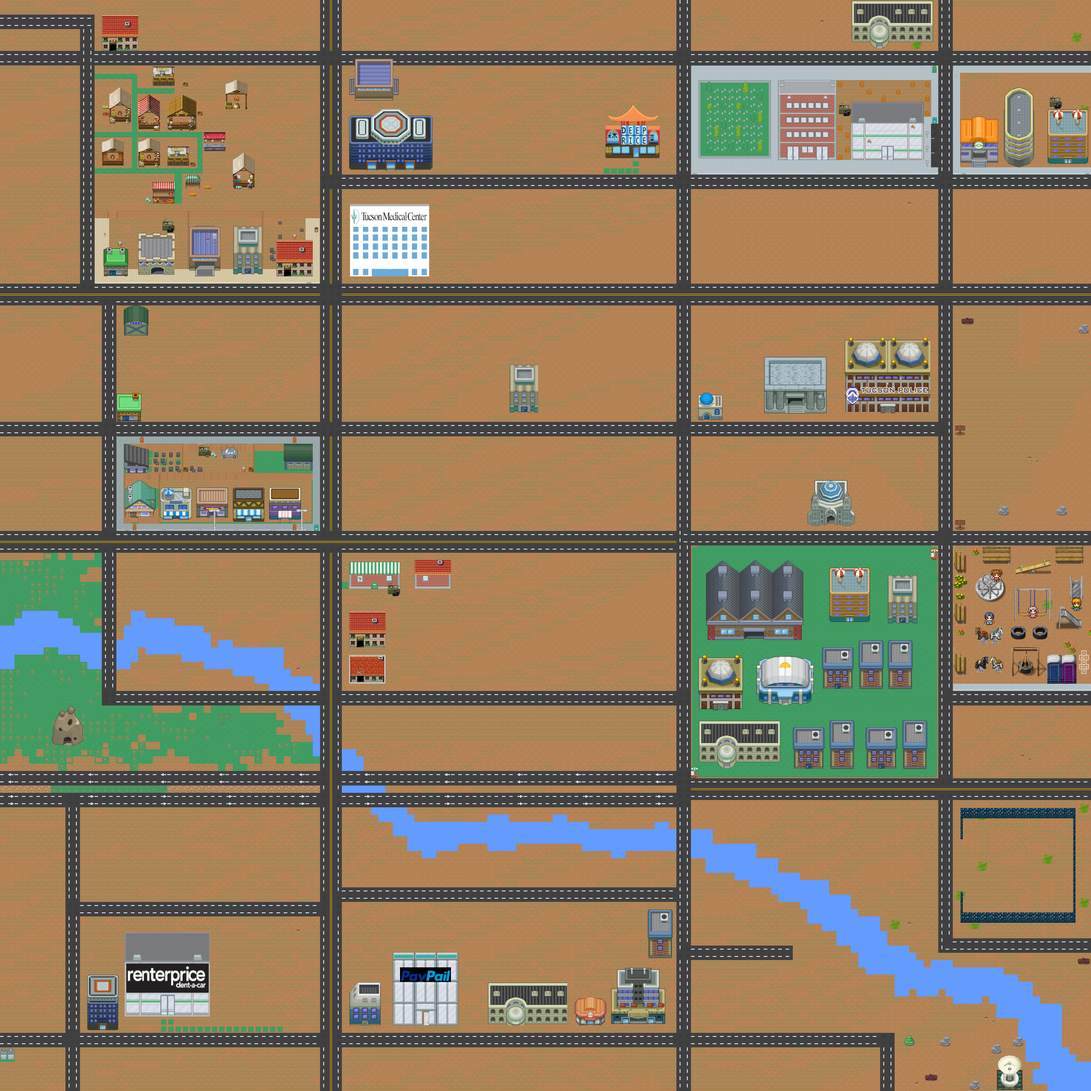
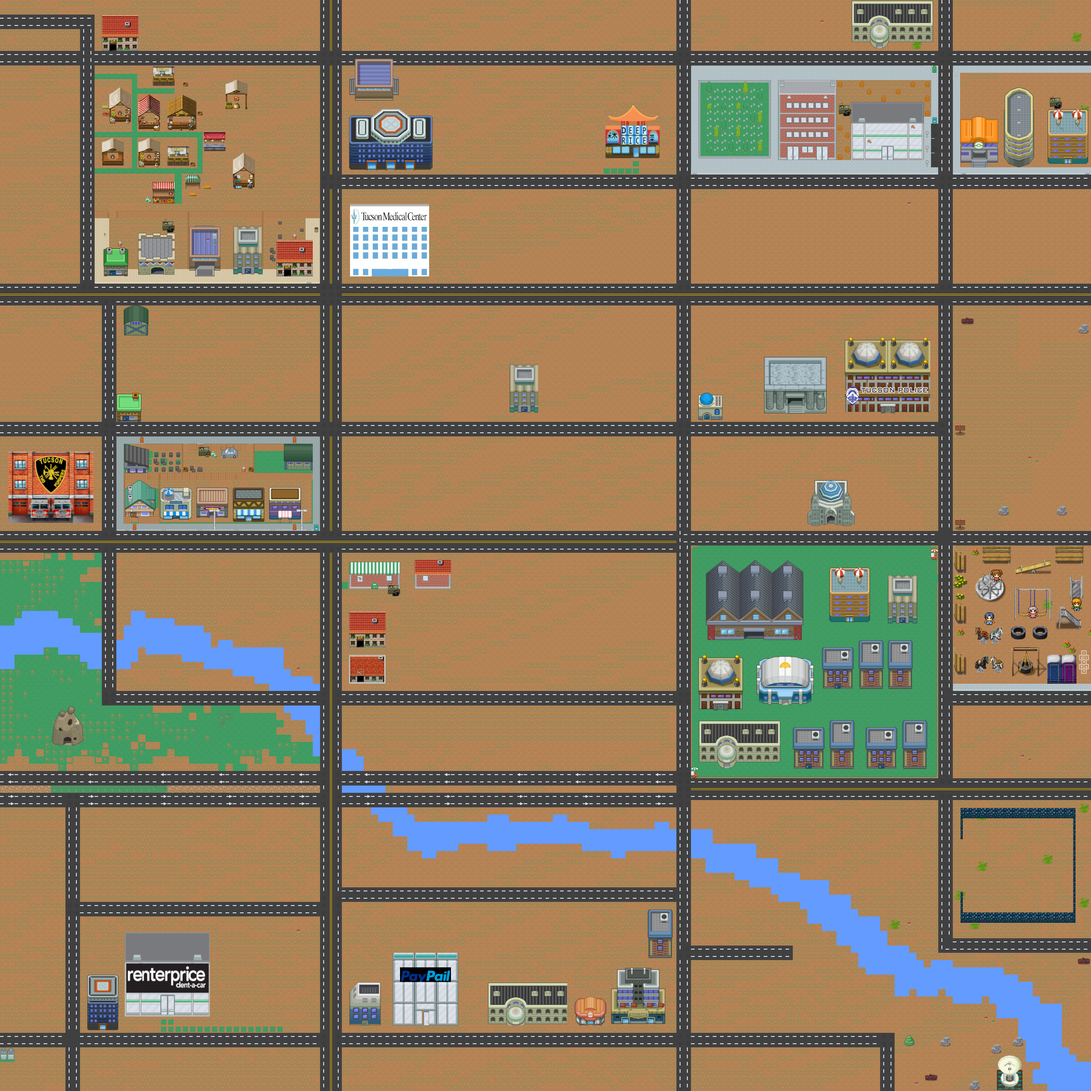
Add fire station.

Changed region(s): [[0.0, 0.4062, 0.0938, 0.5]]

diff --git a/resources/src/maps/buildings-fire-station.tsx b/resources/src/maps/buildings-fire-station.tsx
@@ -1,0 +1,4 @@
+<?xml version="1.0" encoding="UTF-8"?>
+<tileset version="1.4" tiledversion="1.4.1" name="buildings-fire-station" tilewidth="16" tileheight="16" tilecount="120" columns="12">
+ <image source="assets/buildings-fire-station.png" trans="ff00ff" width="192" height="160"/>
+</tileset>
